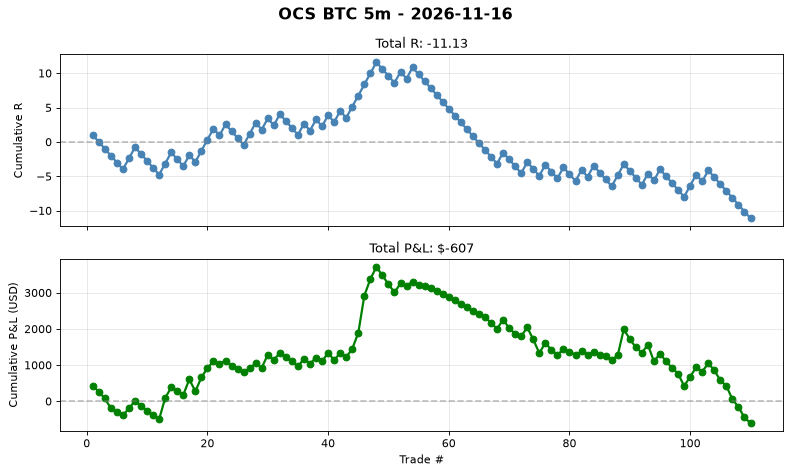
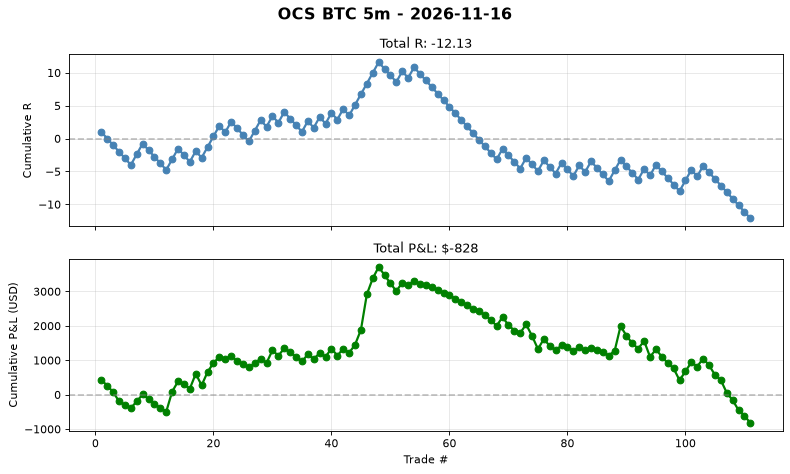
auto(ocs-btc): signal log 2026-11-16T09:21 trades=111

diff --git a/automation/reports/ocs_btc_5m/daily/2026-11-16.md b/automation/reports/ocs_btc_5m/daily/2026-11-16.md
@@ -1,5 +1,37 @@
 # OCS BTC 5m - 2026-11-16
 
-**No trades today.**
+## Summary
+- **Trades**: 1 (0W / 1L)
+- **Win Rate**: 0.0%
+- **Total R**: -1.00R
+- **Total P&L**: $-222
+- **Avg R**: -1.00R
+- **Profit Factor**: 0.83
 
-Cumulative stats: 110 trades | WR 34.5% | avg R -0.101
+## Exit Breakdown
+- T1 (+1.0R): 1
+- T2 (+1.618R): 37
+- T3 (+2.618R): 0
+- T4 (+3.618R): 0
+- T5 (+5.0R): 0
+- SL (-1.0R): 73
+
+## Best Trade
+- **LONG** at 64,914 -> SL 64,692
+- R = -1.00, P&L = $-222
+- Held for 4 bars
+
+## Worst Trade
+- **LONG** at 64,914 -> SL 64,692
+- R = -1.00, P&L = $-222
+- Held for 4 bars
+
+## Cumulative Stats (Lifetime)
+- Total trades: 111
+- WR: 34.2%
+- Avg R: -0.109
+- Total R: -12.13R
+- Profit Factor: 0.83
+
+## Chart
+See `daily/2026-11-16.png` for cumulative P&L curve.
